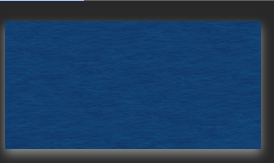
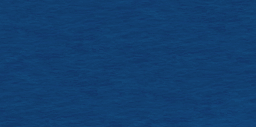
added water texture

Changed region(s): [[0.0, 0.0, 1.0, 1.0]]

diff --git a/src/components/MapView.js b/src/components/MapView.js
@@ -62,7 +62,7 @@ const MapView = ({
     const { pan, zoom, viewportSize, borderOpacity, isPanning, handleMouseDown, goToCoordinates } = useMapInteraction(viewportRef, mapContainerRef, worldState, playerCity, centerOnCity);
     const { visibleSlots, invalidateChunkCache } = useMapData(currentUser, worldId, worldState, pan, zoom, viewportSize);
     const { setMessage, travelTimeInfo, setTravelTimeInfo, handleActionClick, handleSendMovement, handleCreateDummyCity } = useMapActions(openModal, closeModal, showCity, invalidateChunkCache);
-    const { getFarmCapacity, calculateUsedPopulation, calculateHappiness, getMarketCapacity, getHappinessDetails } = useCityState(worldId);
+    const { getFarmCapacity, calculateUsedPopulation, calculateHappiness, getMarketCapacity } = useCityState(worldId);
     
     useEffect(() => {
         if (panToCoords) {
@@ -79,7 +79,7 @@ const MapView = ({
 
     const { availablePopulation, happiness, marketCapacity } = useMemo(() => {
         if (!gameState?.buildings) return { availablePopulation: 0, happiness: 0, marketCapacity: 0 };
-        const maxPop = getFarmCapacity(gameState.buildings.farm?.level);
+        const maxPop = getFarmCapacity(gameState.buildings.farm.level);
         const usedPop = calculateUsedPopulation(gameState.buildings, gameState.units);
         const availablePop = maxPop - usedPop;
         const happinessValue = calculateHappiness(gameState.buildings);
@@ -243,14 +243,13 @@ const MapView = ({
                 quests={quests}
             />
             <div className="flex-grow flex flex-row overflow-hidden">
-                <div className="main-content flex-grow relative map-background">
+                <div className="main-content flex-grow relative map-surface">
                     <div className="map-viewport" ref={viewportRef} onMouseDown={handleMouseDown} style={{ cursor: isPanning ? 'grabbing' : (isPlacingDummyCity ? 'crosshair' : 'grab') }}>
                         <TopBar 
                             view="map" 
                             gameState={gameState} 
                             availablePopulation={availablePopulation} 
                             happiness={happiness} 
-                            getHappinessDetails={() => getHappinessDetails(gameState.buildings)}
                             worldState={worldState} 
                             movements={movements}
                             onCancelTrain={onCancelTrain}
@@ -285,7 +284,7 @@ const MapView = ({
                         
                         {/* Wrapper to control stacking context of the map grid */}
                         <div className="absolute inset-0 z-0">
-                            <div ref={mapContainerRef} style={{ width: worldState?.width * 32, height: worldState?.height * 32, transformOrigin: '0 0' }}>
+                            <div ref={mapContainerRef} className="map-surface" style={{ width: worldState?.width * 32, height: worldState?.height * 32, transformOrigin: '0 0' }}>
                                 <MapGrid mapGrid={mapGrid} worldState={worldState} pan={pan} zoom={zoom} viewportSize={viewportSize} onCitySlotClick={onCitySlotClick} onVillageClick={onVillageClick} onRuinClick={onRuinClick} isPlacingDummyCity={isPlacingDummyCity} movements={movements} combinedSlots={combinedSlotsForGrid} villages={villages} ruins={ruins} playerAlliance={playerAlliance} conqueredVillages={conqueredVillages} gameSettings={gameSettings} />
                             </div>
                         </div>

diff --git a/src/components/map/Tiles.js b/src/components/map/Tiles.js
@@ -6,14 +6,9 @@ import ruinImage from '../../images/ruin_new.png';
 const defaultSettings = { showVisuals: true, showGrid: true };
 
 export const WaterTile = React.memo(({ gameSettings = defaultSettings }) => {
-    // #comment Use the new animated class from map.css for the visual effect.
-    const bgClass = gameSettings.showVisuals ? 'water-tile-animated' : 'bg-blue-800';
-    const borderClass = gameSettings.showGrid
-        ? `border-r border-b ${gameSettings.showVisuals ? 'border-blue-900/20' : 'border-gray-800'}`
-        : 'border-r border-b border-transparent';
-        
-    // #comment The background is now handled by the CSS class, not inline styles.
-    return <div className={`w-full h-full ${bgClass} ${borderClass}`} />;
+    // #comment This tile is now completely transparent and borderless.
+    // #comment The background is handled by the parent .map-surface container.
+    return <div className="w-full h-full bg-transparent" />;
 });
 
 export const LandTile = React.memo(({ gameSettings = defaultSettings }) => {
@@ -121,13 +116,10 @@ export const RuinTile = React.memo(({ ruinData, onClick, gameSettings = defaultS
         }
     }
 
-    const bgClass = gameSettings.showVisuals ? 'bg-blue-900' : 'bg-gray-900';
-    const borderClass = gameSettings.showGrid
-        ? `border-r border-b ${gameSettings.showVisuals ? 'border-blue-950' : 'border-gray-800'}`
-        : 'border-r border-b border-transparent';
+    const bgClass = 'bg-transparent'; // Use the parent's water texture
 
     return (
-        <div className={`w-full h-full ${bgClass} ${borderClass} flex justify-center items-center`}>
+        <div className={`w-full h-full ${bgClass} flex justify-center items-center`}>
             <div
                 onClick={(e) => onClick(e, ruinData)}
                 className={ruinClass}

diff --git a/src/components/city/Cityscape.js b/src/components/city/Cityscape.js
@@ -11,9 +11,22 @@ const Cityscape = ({ buildings, onBuildingClick, buildingImages }) => {
         width: '2000px', // Large canvas for the city
         height: '1200px',
         position: 'relative',
-        background: `linear-gradient(to bottom, #2a623d 85%, #1e3a8a 25%)`, // 70% land, 30% sea
+        background: 'transparent', // Make this transparent so the parent background shows
       }}
     >
+      {/* Add a green overlay to represent the island's landmass */}
+      <div 
+        className="absolute"
+        style={{
+          top: '0',
+          left: '0',
+          width: '100%',
+          height: '85%', // Cover most of the area, leaving the bottom for the sea/shipyard
+          backgroundColor: '#2a623d', // Same land color as before
+          zIndex: 0
+        }}
+      />
+      
       {buildingLayout.map((building) => {
         const buildingData = buildings[building.id];
         const level = buildingData?.level || 0;

diff --git a/src/styles/map.css b/src/styles/map.css
@@ -1,17 +1,10 @@
 /* src/styles/map.css */
 
 /* --- Map & Tile Styles --- */
-@keyframes animate-water {
-  0% { background-position: 0 0; }
-  100% { background-position: 128px 0; }
-}
-
-.water-tile-animated {
-  background-image: url('../images/watertiles.webp');
-  background-color: #1e3a8a;
+.map-surface {
+  background-image: url('../images/water.png');
   background-repeat: repeat;
-  animation: animate-water 10s linear infinite;
-  background-size: auto 100%;
+  background-size: 180px;
 }
 
 .map-viewport {
